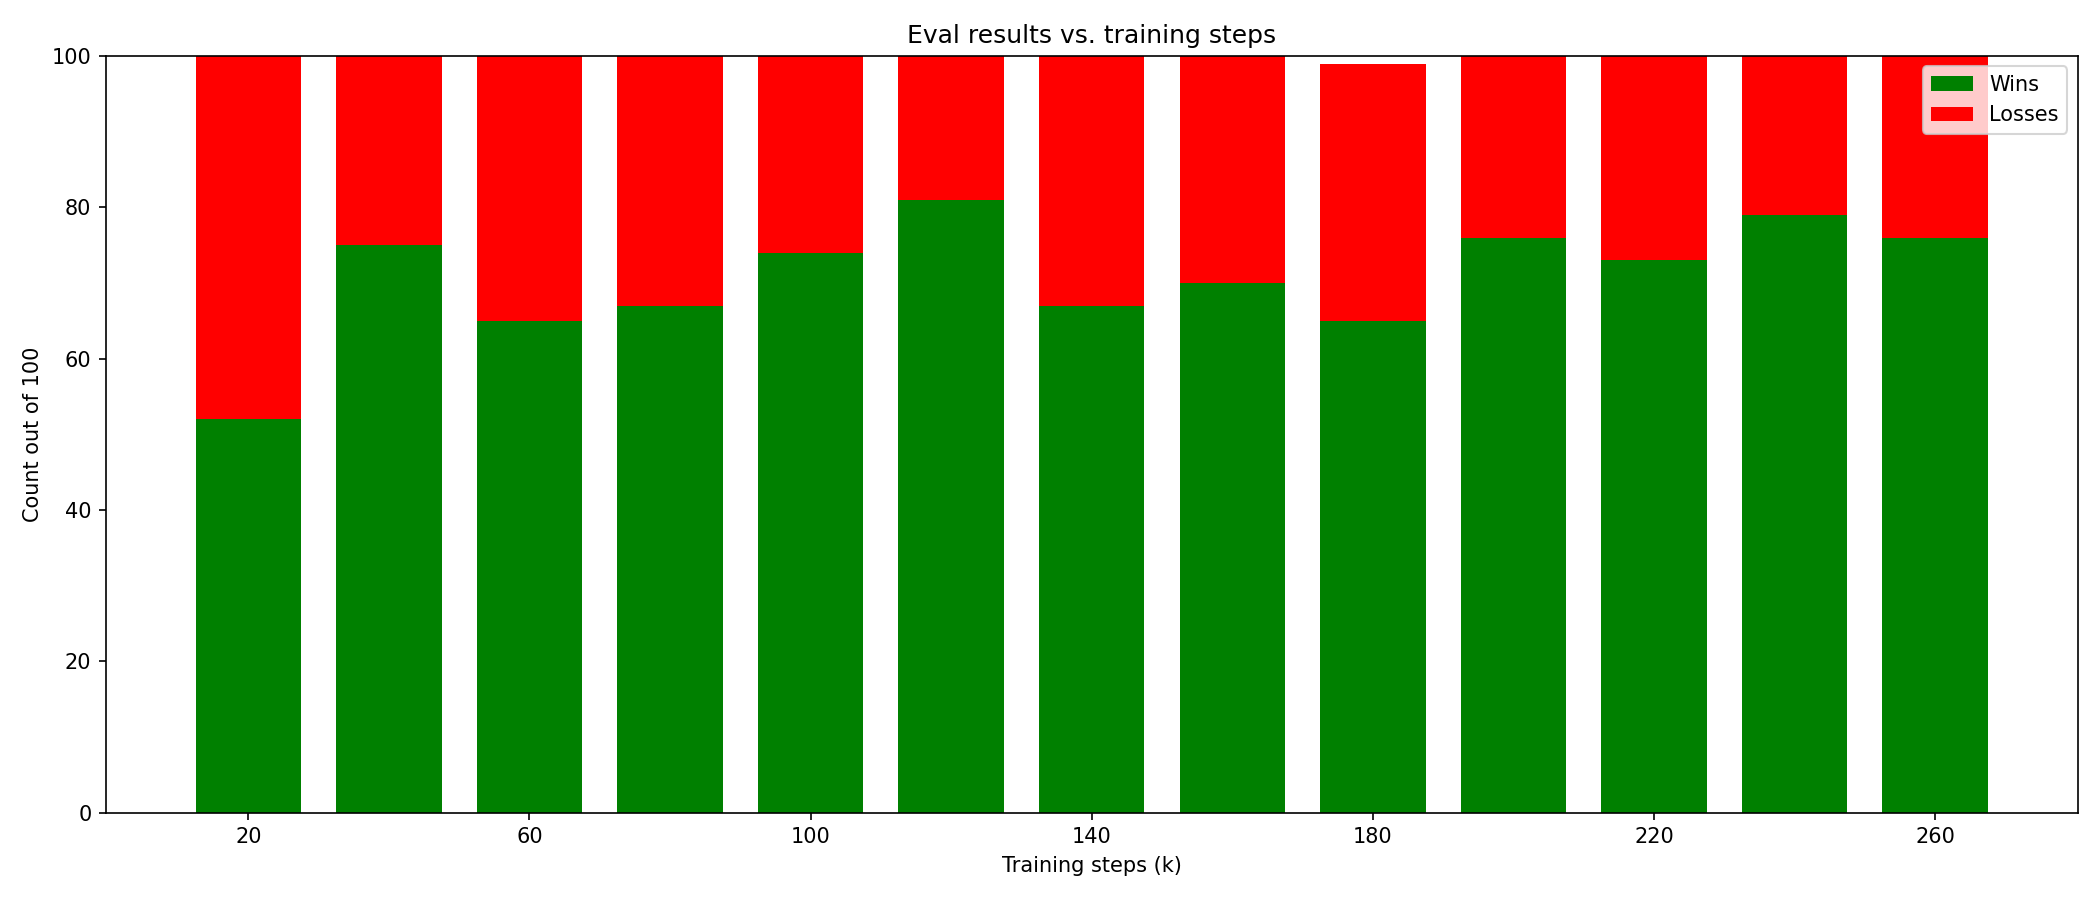
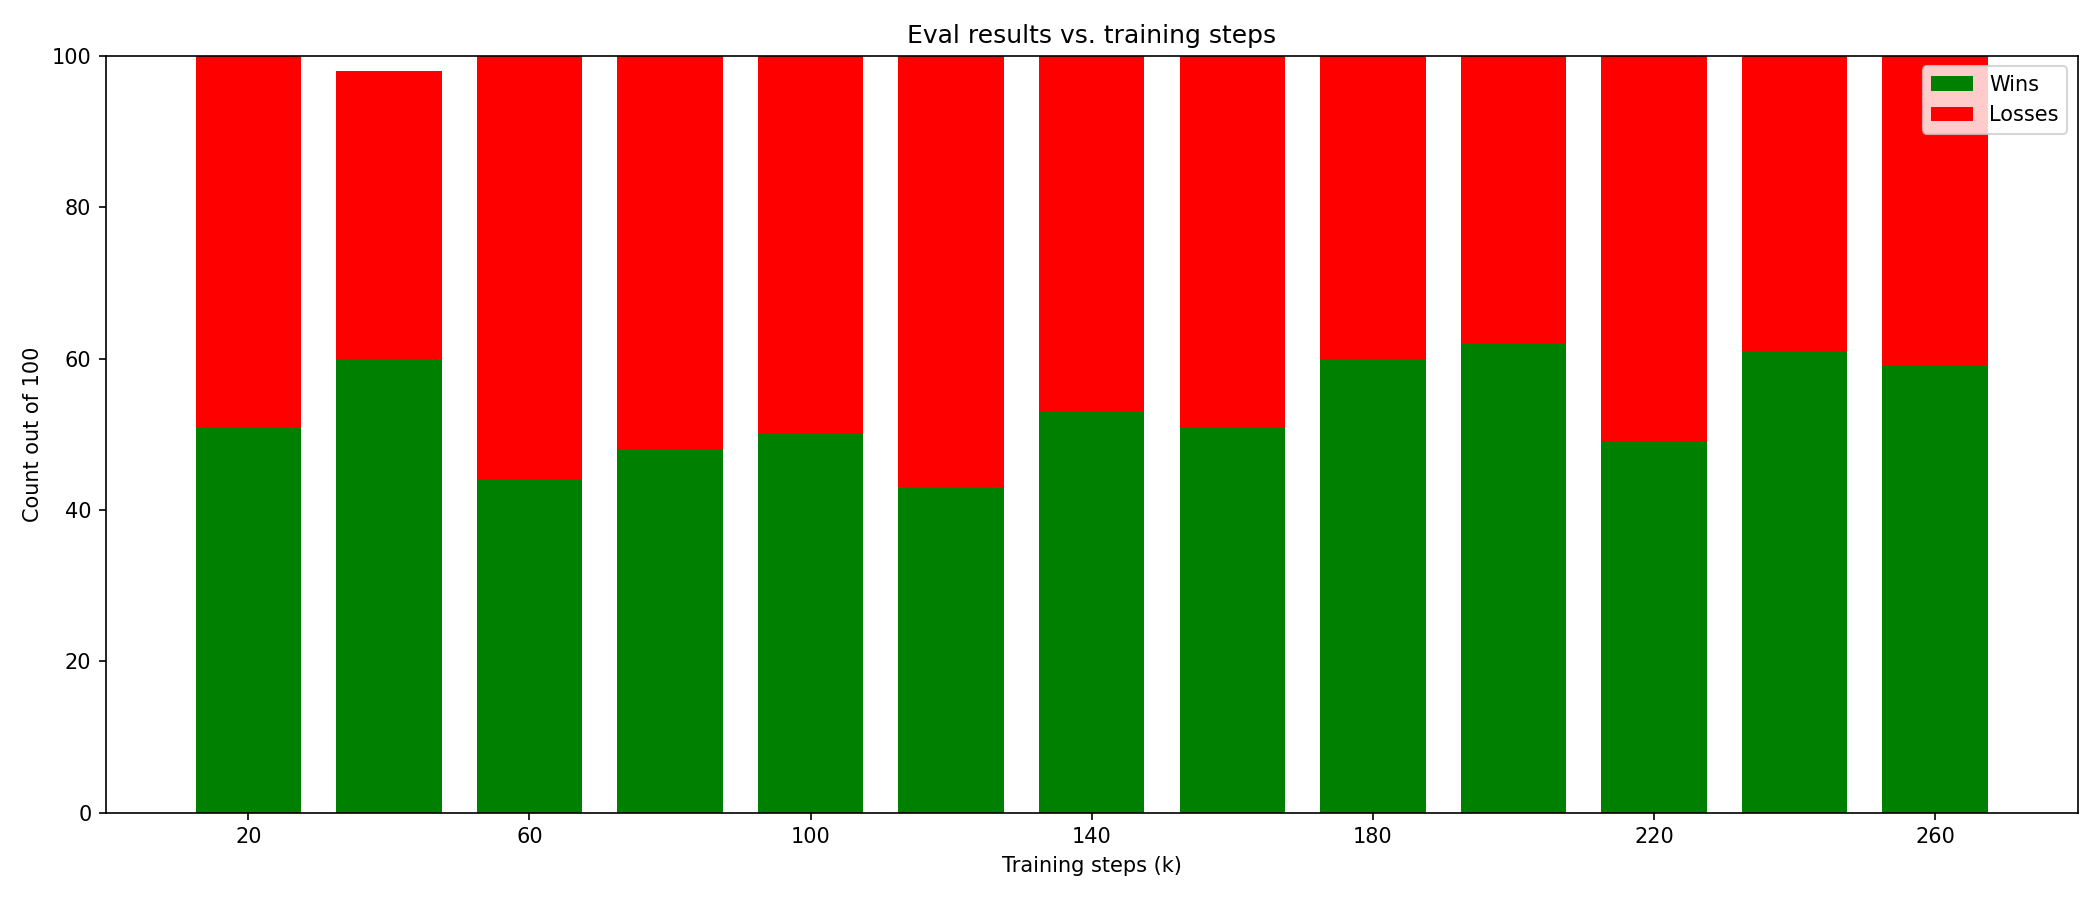
Final smarter run

diff --git a/gym_evaluate.py b/gym_evaluate.py
@@ -4,7 +4,7 @@ import pickle
 import re
 import matplotlib.pyplot as plt
 
-for i in range (0, 13):
+'''for i in range (0, 13):
     model = MaskablePPO.load(f"./gym_training_data/versus_fixed_smarter{i*20000}")
     with open(f"./gym_training_data/vn_versus_fixed_smarter{i*20000}.pkl", "rb") as f:
         normalizer = pickle.load(f)
@@ -13,11 +13,11 @@ for i in range (0, 13):
     
     with open("data3.txt", "a") as f:
        f.write("\n" + f"wins for {20*(i+1)}k: {wins}, losses for {20*(i+1)}k: {losses}")
-
+'''
 LINE_RE = re.compile(r"wins for (\d+)k:\s*(\d+),\s*losses for \d+k:\s*(\d+)")
 
 steps, wins, losses = [], [], []
-with open("data3.txt") as f:
+with open("data4.txt") as f:
     for line in f:
         m = LINE_RE.search(line)
         if not m:

diff --git a/evaluate.py b/evaluate.py
@@ -1,5 +1,5 @@
 from towerfall_env_petting_zoo import TowerFallEnv
-from agents import BaselineAgent, ModelAgent
+from agents import SmarterBaselineAgent, ModelAgent
 from stable_baselines3 import PPO
 import pickle
 
@@ -11,7 +11,7 @@ def evaluate(model, normalizer, num_rounds):
 
     current_agents = {
         "archer_0": ModelAgent(model = model, normalizer = normalizer), 
-        "archer_1": BaselineAgent()
+        "archer_1": SmarterBaselineAgent() #or BaselineAgent
     }
 
     first_player_wins = 0

diff --git a/kareem_helper.py b/kareem_helper.py
@@ -7,10 +7,10 @@ from sb3_contrib.ppo_mask import MaskablePPO
 # evaluate a model against SimpleAgent
 
 
-model = MaskablePPO.load(f"./gym_training_data/versus_fixed_{260000}")
-with open(f"./gym_training_data/vn_versus_fixed_{260000}.pkl", "rb") as f:
+model = MaskablePPO.load(f"./gym_training_data/versus_fixed_smarter{240000}")
+with open(f"./gym_training_data/vn_versus_fixed_smarter{240000}.pkl", "rb") as f:
     normalizer = pickle.load(f)
-num_rounds = 10
+num_rounds = 100
 
 
 #initialize environment
